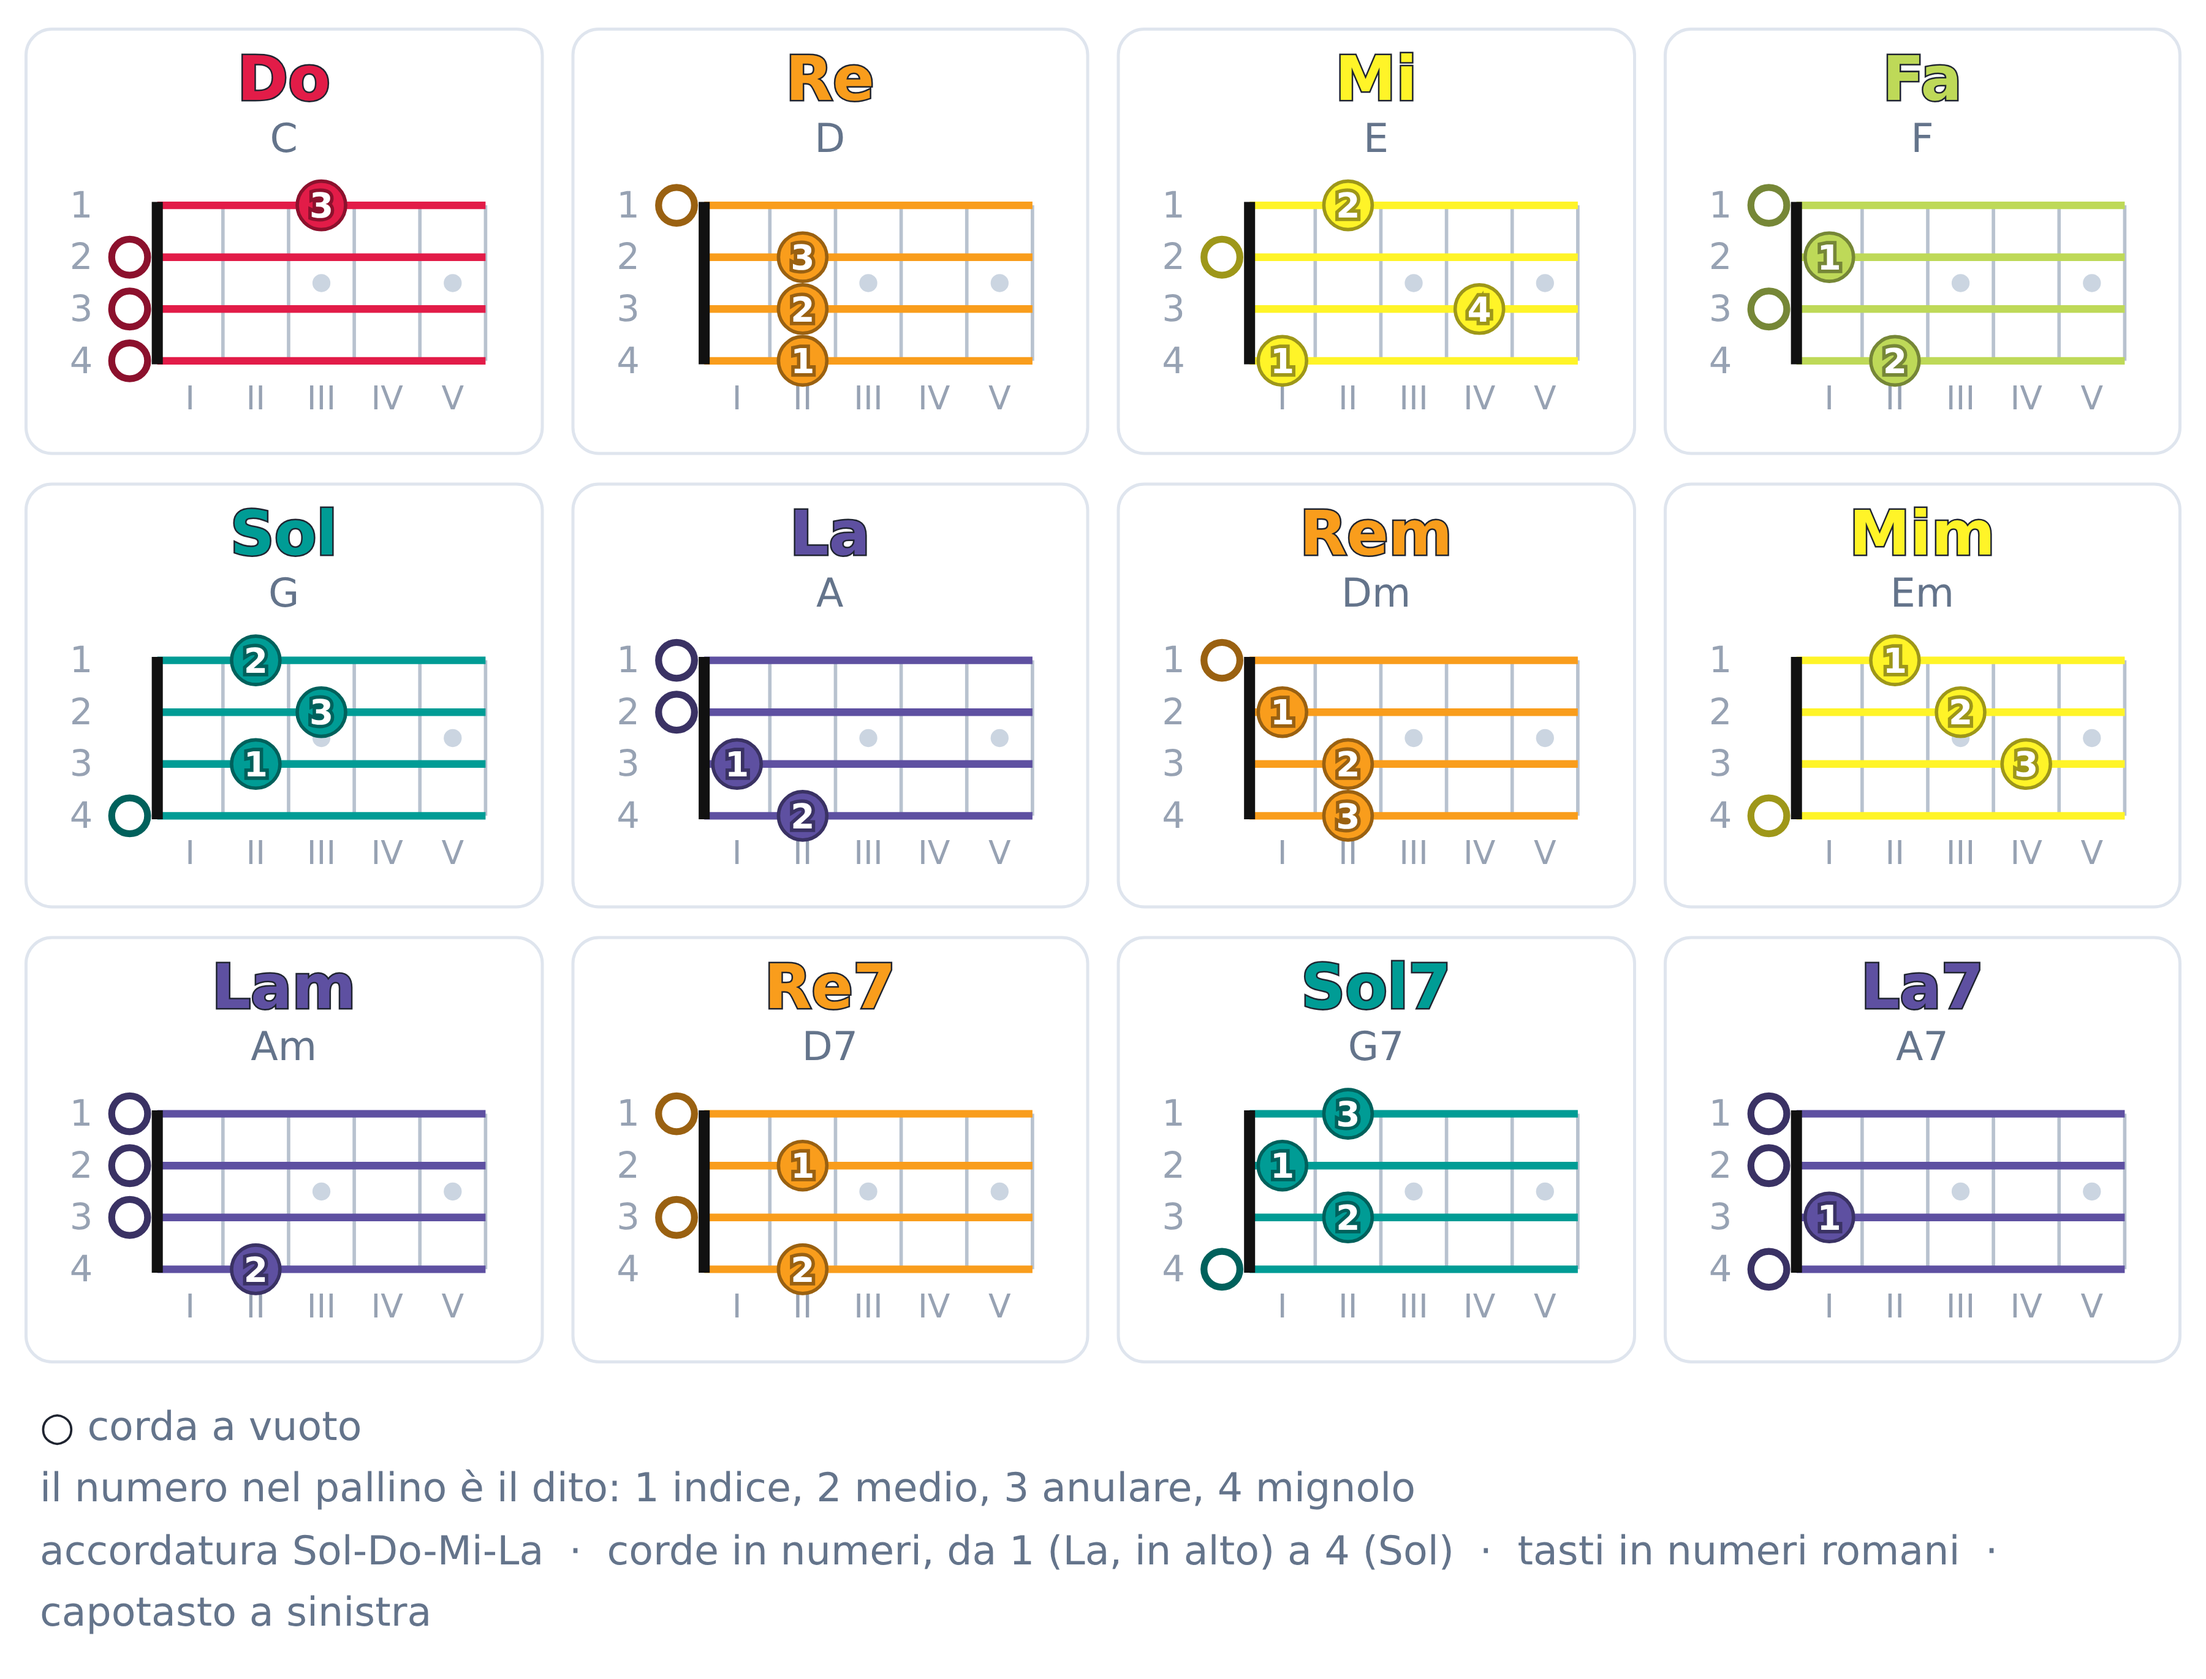
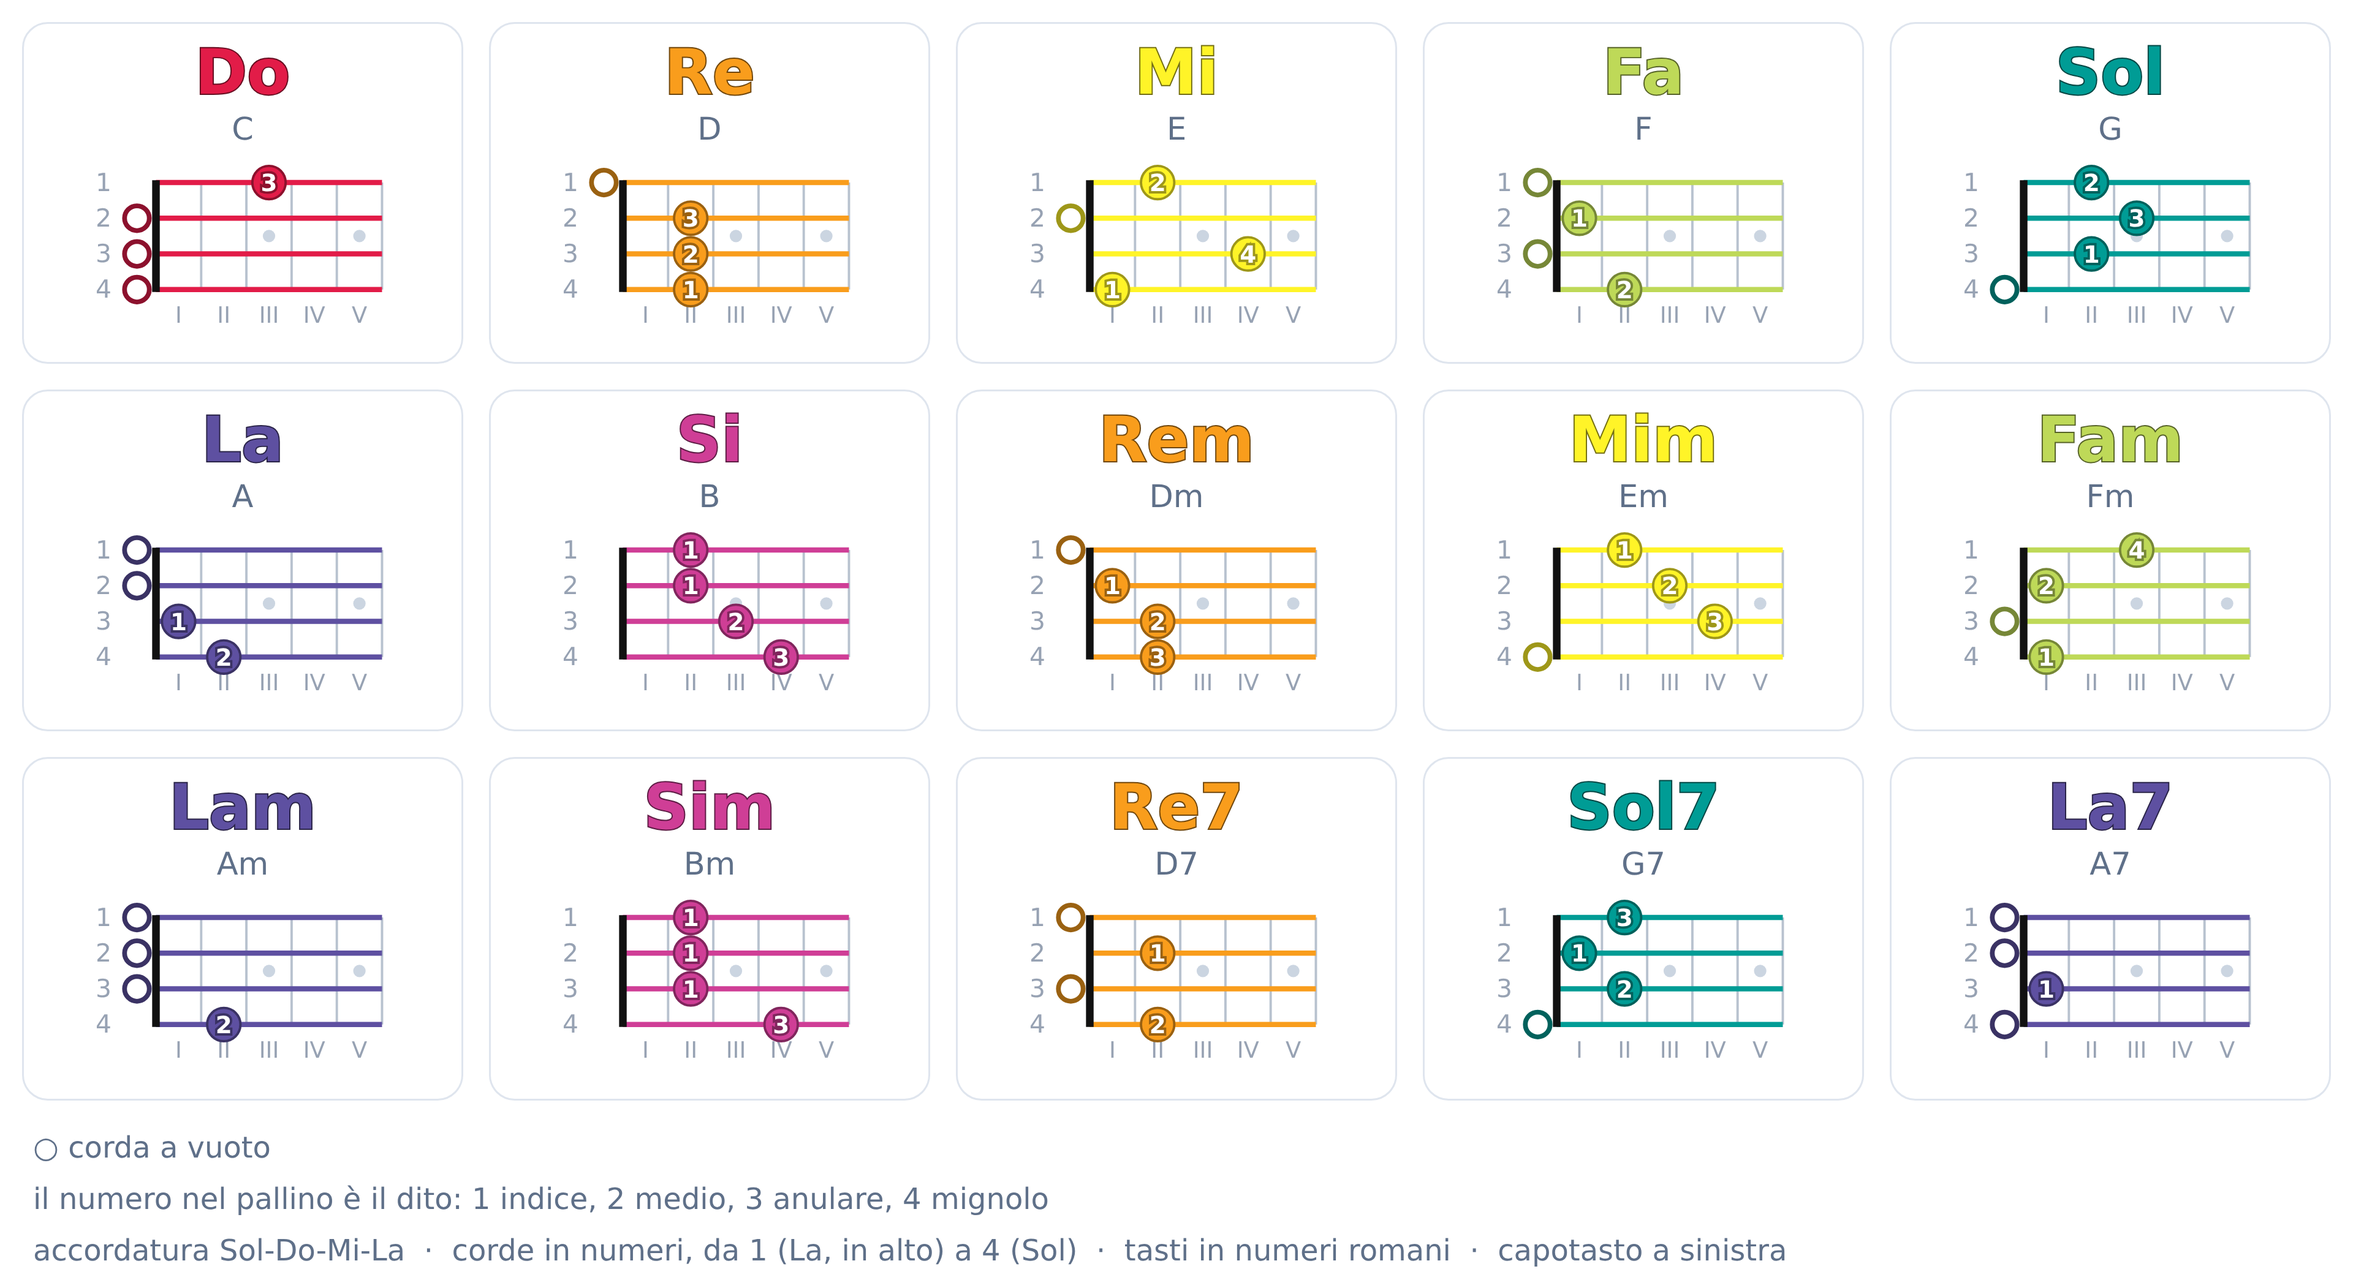
Schemi: accordi Fam, Si e Sim per chitarra, ukulele e tastiera; note della tastiera fino al Mi del quarto spazio
- Schemi degli accordi rifatti con 15 accordi (5 colonne x 3 righe, tutto in una schermata alla LIM)
- Schema delle note della tastiera da Do centrale a Mi5, con tutti i tasti neri
- Nuovo generatore delle immagini in _sviluppo/schemi/genera_schemi.py
- Voce in Updates e in PUNTI-DIDATTICI.md

Claude-Session: https://claude.ai/code/session_01NrLg9qZSy3EMrs51XA96ZN

diff --git a/schemi-strumenti.html b/schemi-strumenti.html
@@ -496,7 +496,7 @@
       icona: '<svg class="ico" viewBox="0 0 48 48" aria-hidden="true"><use href="icone.svg#ic-chitarra"/></svg>',
       schemi: [
         { title: "Schema note", icon: "📄", label: "Note", desc: "Ogni nota sul pentagramma, con il suo nome e la posizione sullo strumento.", url: "media/schemi/schema-note-chitarra.png" },
-        { title: "Schema accordi", icon: "🎼", label: "Accordi", desc: "Gli accordi principali: maggiori, minori e di settima, con le dita da usare.", url: "media/schemi/schema-accordi-chitarra.png" }
+        { title: "Schema accordi", icon: "🎼", label: "Accordi", desc: "Gli accordi principali: maggiori, minori e di settima, con le dita da usare.", url: "media/schemi/schema-accordi-chitarra.png?v=2026-10-15" }
       ]
     },
     {
@@ -504,15 +504,15 @@
       icona: '<svg class="ico" viewBox="0 0 48 48" aria-hidden="true"><use href="icone.svg#ic-ukulele"/></svg>',
       schemi: [
         { title: "Schema note", icon: "📄", label: "Note", desc: "Ogni nota sul pentagramma, con il suo nome e la posizione sullo strumento.", url: "media/schemi/schema-note-ukulele.png" },
-        { title: "Schema accordi", icon: "🎼", label: "Accordi", desc: "Gli accordi principali: maggiori, minori e di settima, con le dita da usare.", url: "media/schemi/schema-accordi-ukulele.png" }
+        { title: "Schema accordi", icon: "🎼", label: "Accordi", desc: "Gli accordi principali: maggiori, minori e di settima, con le dita da usare.", url: "media/schemi/schema-accordi-ukulele.png?v=2026-10-15" }
       ]
     },
     {
       nome: "Tastiera",
       icona: '<svg class="ico" viewBox="0 0 48 48" aria-hidden="true"><use href="icone.svg#ic-tastiera"/></svg>',
       schemi: [
-        { title: "Schema note", icon: "📄", label: "Note", desc: "Ogni nota sul pentagramma, con il suo nome e la posizione sullo strumento.", url: "media/schemi/schema-note-tastiera.png" },
-        { title: "Schema accordi", icon: "🎼", label: "Accordi", desc: "Gli accordi principali: maggiori, minori e di settima, con le dita da usare.", url: "media/schemi/schema-accordi-tastiera.png" }
+        { title: "Schema note", icon: "📄", label: "Note", desc: "Ogni nota sul pentagramma, con il suo nome e la posizione sullo strumento.", url: "media/schemi/schema-note-tastiera.png?v=2026-10-15" },
+        { title: "Schema accordi", icon: "🎼", label: "Accordi", desc: "Gli accordi principali: maggiori, minori e di settima, con le dita da usare.", url: "media/schemi/schema-accordi-tastiera.png?v=2026-10-15" }
       ]
     },
     {

diff --git a/motore-schemi.js b/motore-schemi.js
@@ -158,7 +158,11 @@
       Sol:  [[3, 3], 0, 0, 0, [2, 1], [3, 2]],        La:   [0, [2, 3], [2, 2], [2, 1], 0, "x"],
       Rem:  [[1, 1], [3, 3], [2, 2], 0, "x", "x"],    Mim:  [0, 0, 0, [2, 3], [2, 2], 0],
       Lam:  [0, [1, 1], [2, 3], [2, 2], 0, "x"],      Re7:  [[2, 3], [1, 1], [2, 2], 0, "x", "x"],
-      Sol7: [[1, 1], 0, 0, 0, [2, 2], [3, 3]],        La7:  [0, [2, 2], 0, [2, 1], 0, "x"]
+      Sol7: [[1, 1], 0, 0, 0, [2, 2], [3, 3]],        La7:  [0, [2, 2], 0, [2, 1], 0, "x"],
+      // forme semplificate a 4 corde (come il Fa): niente barré completo
+      Fam:  [[1, 1], [1, 1], [1, 1], [3, 3], "x", "x"],
+      Si:   [[2, 1], [4, 4], [4, 3], [4, 2], "x", "x"],
+      Sim:  [[2, 1], [3, 2], [4, 4], [4, 3], "x", "x"]
     },
     ukulele: {
       Do:   [[3, 3], 0, 0, 0],             Re:   [0, [2, 3], [2, 2], [2, 1]],
@@ -166,11 +170,14 @@
       Sol:  [[2, 2], [3, 3], [2, 1], 0],   La:   [0, 0, [1, 1], [2, 2]],
       Rem:  [0, [1, 1], [2, 2], [2, 3]],   Mim:  [[2, 1], [3, 2], [4, 3], 0],
       Lam:  [0, 0, 0, [2, 2]],             Re7:  [0, [2, 1], 0, [2, 2]],
-      Sol7: [[2, 3], [1, 1], [2, 2], 0],   La7:  [0, 0, [1, 1], 0]
+      Sol7: [[2, 3], [1, 1], [2, 2], 0],   La7:  [0, 0, [1, 1], 0],
+      Fam:  [[3, 4], [1, 2], 0, [1, 1]],   Si:   [[2, 1], [2, 1], [3, 2], [4, 3]],
+      Sim:  [[2, 1], [2, 1], [2, 1], [4, 3]]
     }
   };
-  const SIGLE = { Do: "C", Re: "D", Mi: "E", Fa: "F", Sol: "G", La: "A", Rem: "Dm", Mim: "Em", Lam: "Am", Re7: "D7", Sol7: "G7", La7: "A7" };
-  const LETTERA_ACCORDO = { Do: "c", Re: "d", Mi: "e", Fa: "f", Sol: "g", La: "a" };
+  const SIGLE = { Do: "C", Re: "D", Mi: "E", Fa: "F", Sol: "G", La: "A", Si: "B", Rem: "Dm", Mim: "Em", Fam: "Fm", Lam: "Am", Sim: "Bm",
+    Re7: "D7", Sol7: "G7", La7: "A7" };
+  const LETTERA_ACCORDO = { Do: "c", Re: "d", Mi: "e", Fa: "f", Sol: "g", La: "a", Si: "b" };
   function svgAccordo(strumento, nome) {
     const forma = ACCORDI[strumento][nome], nCorde = forma.length;
     const tasti = strumento === "ukulele" ? 5 : 4, passo = 15, largTasto = 19;

diff --git a/updates.html b/updates.html
@@ -58,6 +58,11 @@
 <section>
   <h2>15 ottobre 2026</h2>
   <article>
+    <h3><span class="tipo modificato">Modificato</span><a href="schemi-strumenti.html">Schemi degli strumenti</a></h3>
+    <p>Negli schemi degli accordi di chitarra, ukulele e tastiera ci sono anche Fa minore, Si maggiore e Si minore (15 accordi in tutto).
+      Lo schema delle note della tastiera arriva ora fino al Mi del quarto spazio, con tutti i tasti neri.</p>
+  </article>
+  <article>
     <h3><span class="tipo modificato">Modificato</span><a href="memory-note.html">Memory – note</a> e <a href="memory-strumenti.html">Memory – strumenti</a></h3>
     <p>Con più giocatori e le domande attive, la coppia vale solo con la risposta giusta: se si sbaglia il nome della nota,
       la sezione o la classificazione, il punto non conta, le carte si rigirano e tocca all'avversario.</p>

diff --git a/brani-propedeutici.html b/brani-propedeutici.html
@@ -595,7 +595,7 @@
   .strumenti-bar { -webkit-backdrop-filter: none; backdrop-filter: none; background: rgba(15, 23, 42, 0.97); }
 </style>
 <script src="vexflow.js"></script>
-<script src="motore-schemi.js?v=2026-10-09a"></script>
+<script src="motore-schemi.js?v=2026-10-15a"></script>
 <!-- per i motori di ricerca e la condivisione -->
 <link rel="canonical" href="https://musicascuole.it/brani-propedeutici.html">
 <meta property="og:type" content="website">

diff --git a/primi-brani-2.html b/primi-brani-2.html
@@ -597,7 +597,7 @@
   .strumenti-bar { -webkit-backdrop-filter: none; backdrop-filter: none; background: rgba(15, 23, 42, 0.97); }
 </style>
 <script src="vexflow.js"></script>
-<script src="motore-schemi.js?v=2026-10-09a"></script>
+<script src="motore-schemi.js?v=2026-10-15a"></script>
 <!-- per i motori di ricerca e la condivisione -->
 <link rel="canonical" href="https://musicascuole.it/primi-brani-2.html">
 <meta property="og:type" content="website">

diff --git a/primi-brani.html b/primi-brani.html
@@ -597,7 +597,7 @@
   .strumenti-bar { -webkit-backdrop-filter: none; backdrop-filter: none; background: rgba(15, 23, 42, 0.97); }
 </style>
 <script src="vexflow.js"></script>
-<script src="motore-schemi.js?v=2026-10-09a"></script>
+<script src="motore-schemi.js?v=2026-10-15a"></script>
 <!-- per i motori di ricerca e la condivisione -->
 <link rel="canonical" href="https://musicascuole.it/primi-brani.html">
 <meta property="og:type" content="website">

diff --git a/diabelli.html b/diabelli.html
@@ -597,7 +597,7 @@
   .strumenti-bar { -webkit-backdrop-filter: none; backdrop-filter: none; background: rgba(15, 23, 42, 0.97); }
 </style>
 <script src="vexflow.js"></script>
-<script src="motore-schemi.js?v=2026-10-09a"></script>
+<script src="motore-schemi.js?v=2026-10-15a"></script>
 <!-- per i motori di ricerca e la condivisione -->
 <link rel="canonical" href="https://musicascuole.it/diabelli.html">
 <meta property="og:type" content="website">

diff --git a/berens.html b/berens.html
@@ -597,7 +597,7 @@
   .strumenti-bar { -webkit-backdrop-filter: none; backdrop-filter: none; background: rgba(15, 23, 42, 0.97); }
 </style>
 <script src="vexflow.js"></script>
-<script src="motore-schemi.js?v=2026-10-09a"></script>
+<script src="motore-schemi.js?v=2026-10-15a"></script>
 <!-- per i motori di ricerca e la condivisione -->
 <link rel="canonical" href="https://musicascuole.it/berens.html">
 <meta property="og:type" content="website">

diff --git a/scale.html b/scale.html
@@ -598,7 +598,7 @@
   .strumenti-bar { -webkit-backdrop-filter: none; backdrop-filter: none; background: rgba(15, 23, 42, 0.97); }
 </style>
 <script src="vexflow.js"></script>
-<script src="motore-schemi.js?v=2026-10-09a"></script>
+<script src="motore-schemi.js?v=2026-10-15a"></script>
 <!-- per i motori di ricerca e la condivisione -->
 <link rel="canonical" href="https://musicascuole.it/scale.html">
 <meta property="og:type" content="website">

diff --git a/costruttore-di-battute.html b/costruttore-di-battute.html
@@ -23,7 +23,7 @@
 <link rel="apple-touch-icon" href="apple-touch-icon.png">
 <link rel="stylesheet" href="fonts/caratteri.css">
 <script src="vexflow.js"></script>
-<script src="motore-schemi.js?v=2026-10-09a"></script>
+<script src="motore-schemi.js?v=2026-10-15a"></script>
 <link rel="stylesheet" href="comune.css">
 <style>
   * { box-sizing: border-box; }

diff --git a/solfeggio-cantato.html b/solfeggio-cantato.html
@@ -210,7 +210,7 @@
 <div id="areaStampa"></div>
 
 <script src="vexflow.js"></script>
-<script src="motore-schemi.js?v=2026-10-09a"></script>
+<script src="motore-schemi.js?v=2026-10-15a"></script>
 <script>
 (function () {
   "use strict";

diff --git a/solfeggio-parlato.html b/solfeggio-parlato.html
@@ -195,7 +195,7 @@
 <div id="areaStampa"></div>
 
 <script src="vexflow.js"></script>
-<script src="motore-schemi.js?v=2026-10-09a"></script>
+<script src="motore-schemi.js?v=2026-10-15a"></script>
 <script>
 (function () {
   "use strict";
